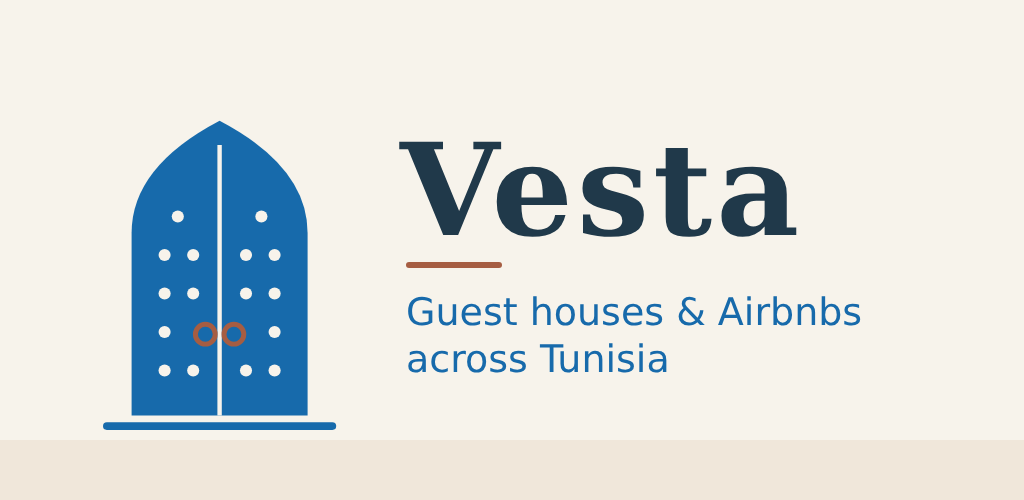
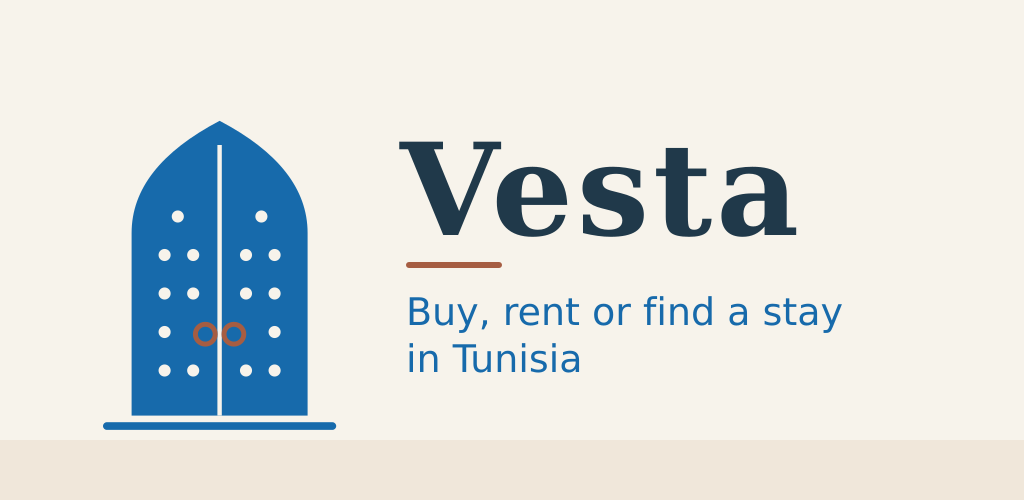
docs(store): Play-ready screenshots, new feature graphic tagline, slides outline update [VST-61]
Screenshots in 1080x1920 without transparency (en, fr, ar), feature graphic text aligned with the short description, outline updated for the production release and #103.

Changed region(s): [[0.375, 0.6, 0.8438, 0.66], [0.375, 0.69, 0.6562, 0.75]]

diff --git a/docs/report/slides-outline.md b/docs/report/slides-outline.md
@@ -1,6 +1,6 @@
 # Vesta : plan des diapositives de la soutenance (VST-68)
 
-Plan texte des 13 diapositives, avec les notes de l'orateur. Les diapositives elles-mêmes sont dans l'artefact « Vesta : soutenance finale » ; ce fichier garde le contenu dans le dépôt, pour le modifier ou l'exporter. Durée visée : 10 minutes. État de `develop` au 17 novembre ; avant la soutenance, mettre à jour la diapositive 8 si une pull request React Native est fusionnée.
+Plan texte des 13 diapositives, avec les notes de l'orateur. Les diapositives elles-mêmes sont dans l'artefact « Vesta : soutenance finale » ; ce fichier garde le contenu dans le dépôt, pour le modifier ou l'exporter. Durée visée : 10 minutes. État de `develop` au 19 novembre (#103 fusionnée, production Google Play publiée).
 
 ## 1. Couverture
 
@@ -21,7 +21,7 @@ Les trois offres viennent de deux champs existants, `listingType` et `rentPeriod
 
 ## 3. Deux applications, un seul back-end
 
-- **Flutter** : l'application complète, sur Google Play (test interne et fermé ; production envoyée pour examen le 19 novembre).
+- **Flutter** : l'application complète, sur Google Play (test interne et fermé, puis production publiée le 19 novembre).
 - **React Native** : la version réduite, en démonstration académique.
 - **Firebase** : Authentication et Firestore (offre gratuite), plus OpenStreetMap pour la carte.
 
@@ -79,7 +79,7 @@ Les tests sur téléphone ont trouvé un prix absurde accepté par les règles, 
 
 ## 10. Sur Google Play, avec du contenu de démonstration
 
-- **Test interne et test fermé :** version 1.0.0 disponible depuis le 22 octobre (build 1), build 2 en test fermé. **Production :** build 3 (1.0.0+3) envoyé pour examen le 19 novembre, statut « en cours d'examen » (jusqu'à sept jours de revue). Plan B pour la démo : lien du test fermé et application sur deux téléphones. Fiche en trois langues.
+- **Test interne et test fermé :** version 1.0.0 disponible depuis le 22 octobre (build 1), build 2 en test fermé. **Production :** build 3 (1.0.0+3) publié le 19 novembre 2026, disponible sur Google Play. Plan B pour la démo : lien du test fermé et application sur deux téléphones. Fiche en trois langues.
 - **15 annonces « Démo » réelles :** informations et photos réelles, avec l'accord oral des propriétaires (usage académique, notés dans `docs/content/sources.md`). Aucun accord écrit, pas de badge vérifié.
 
 *Notes :* dire clairement que l'accord est oral et que les propriétaires ont demandé à ne pas être nommés. Un lancement réel demanderait un accord écrit.

diff --git a/docs/store/play-ready/README.md b/docs/store/play-ready/README.md
@@ -1,0 +1,10 @@
+# Play-ready screenshots (VST-61)
+
+Phone screenshots for the Google Play listing, made from the originals in `docs/store/screenshots/`.
+
+- 1080x1920 px, 24-bit PNG without transparency (Google Play accepts 320 to 3840 px per side, long side at most 2x the short side). The originals are about 357x780 with an alpha channel, so they are not accepted as they are.
+- Each original is flattened on the cream background, scaled to a height of 1720 px, rounded, and centred on the brand blue `#176AAB`.
+- 5 screens per language (en, fr, ar): `01-login`, `02-search`, `03-details`, `04-details-scrolled`, `05-map`. Same Demo data as the originals, no personal data.
+- The screenshots are scaled up about 2.4x, so they are slightly soft. Retake them at a higher resolution if sharper images are needed.
+
+The feature graphic in `docs/brand/` now says "Buy, rent or find a stay in Tunisia", to match the short description.
